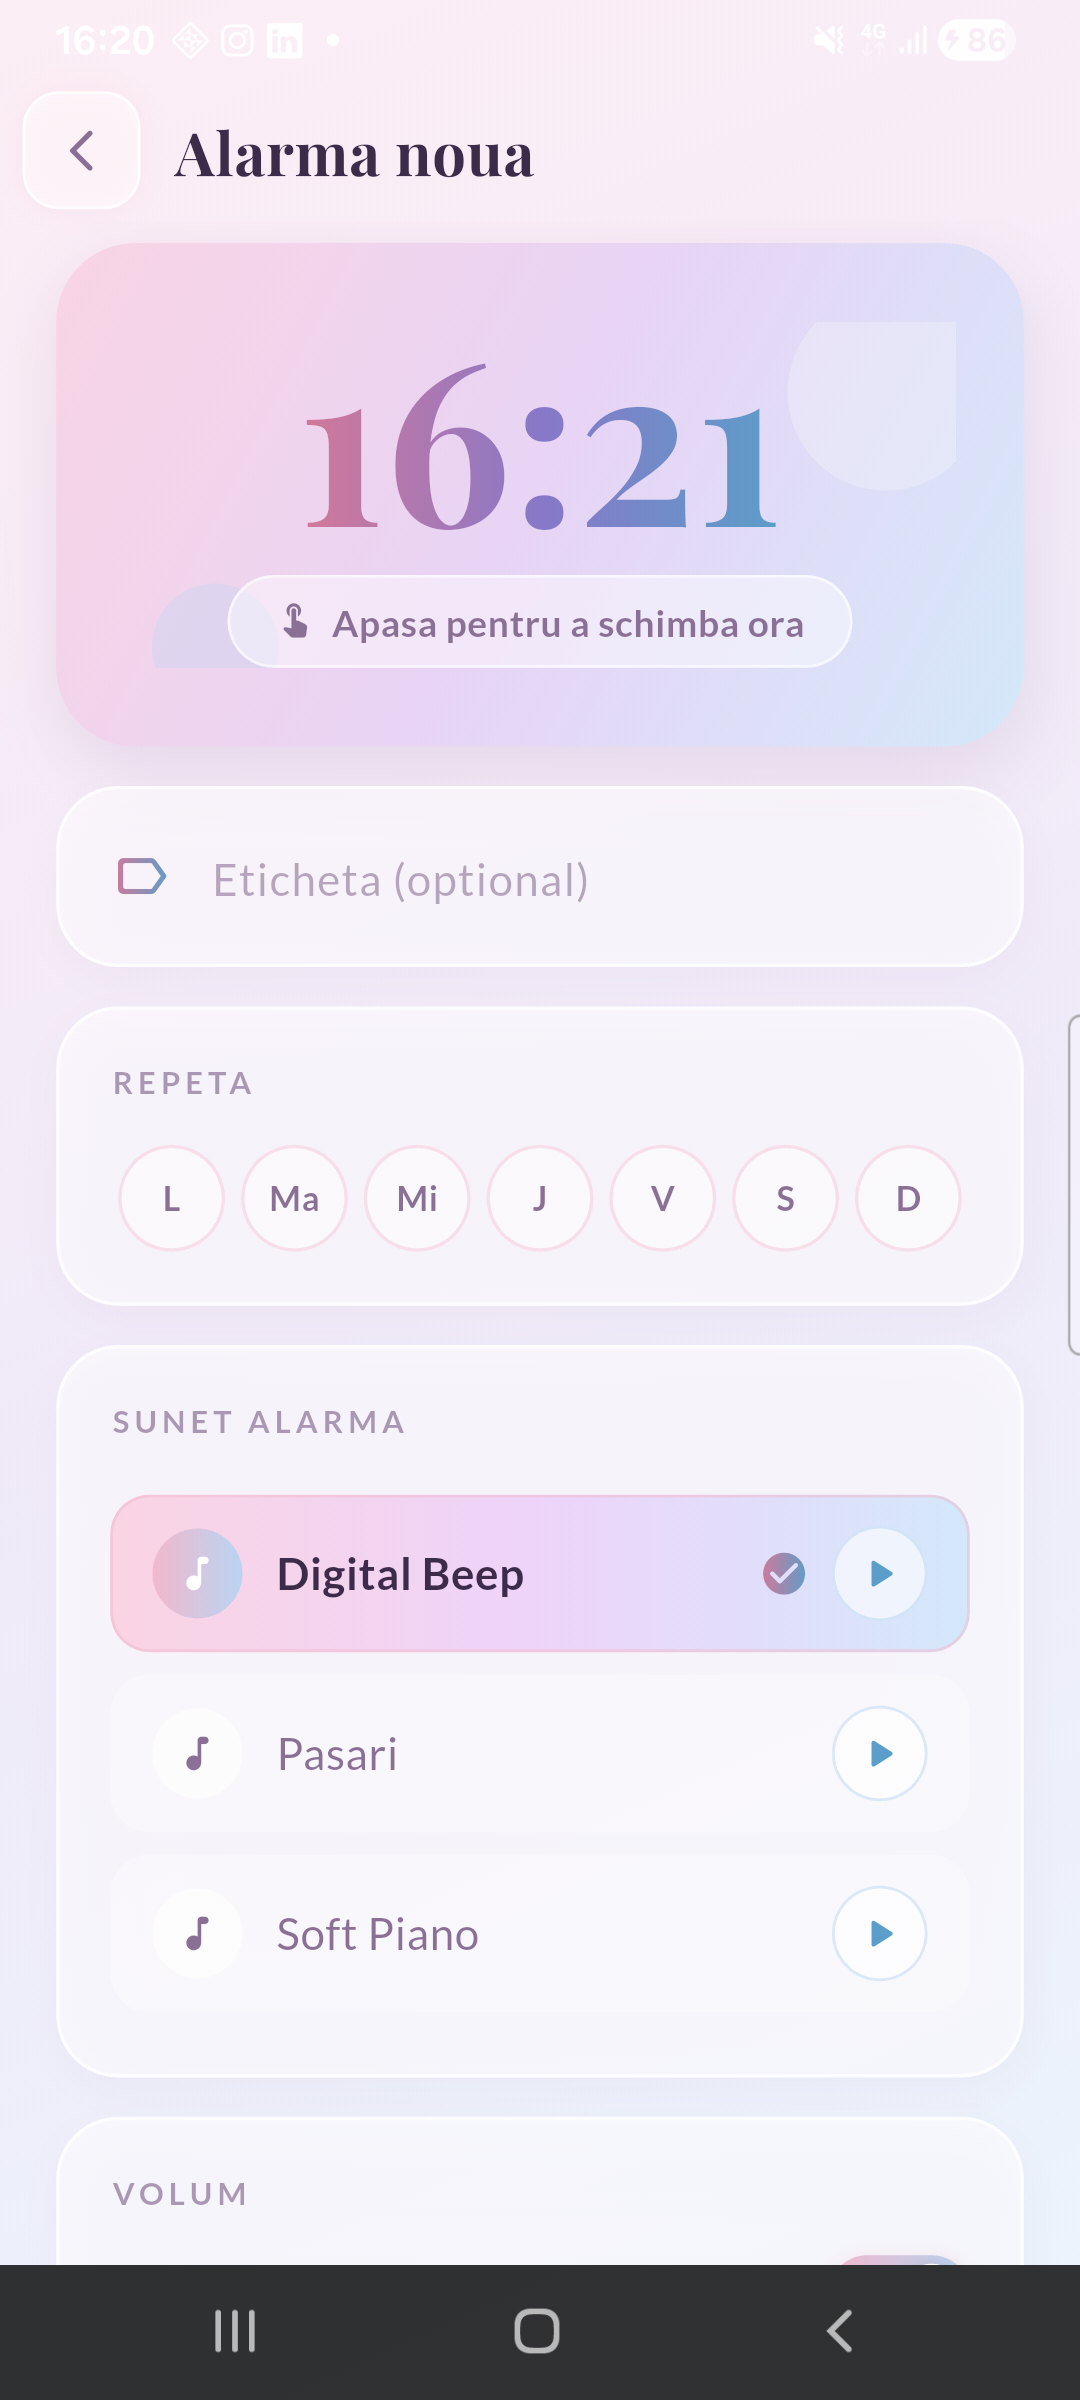
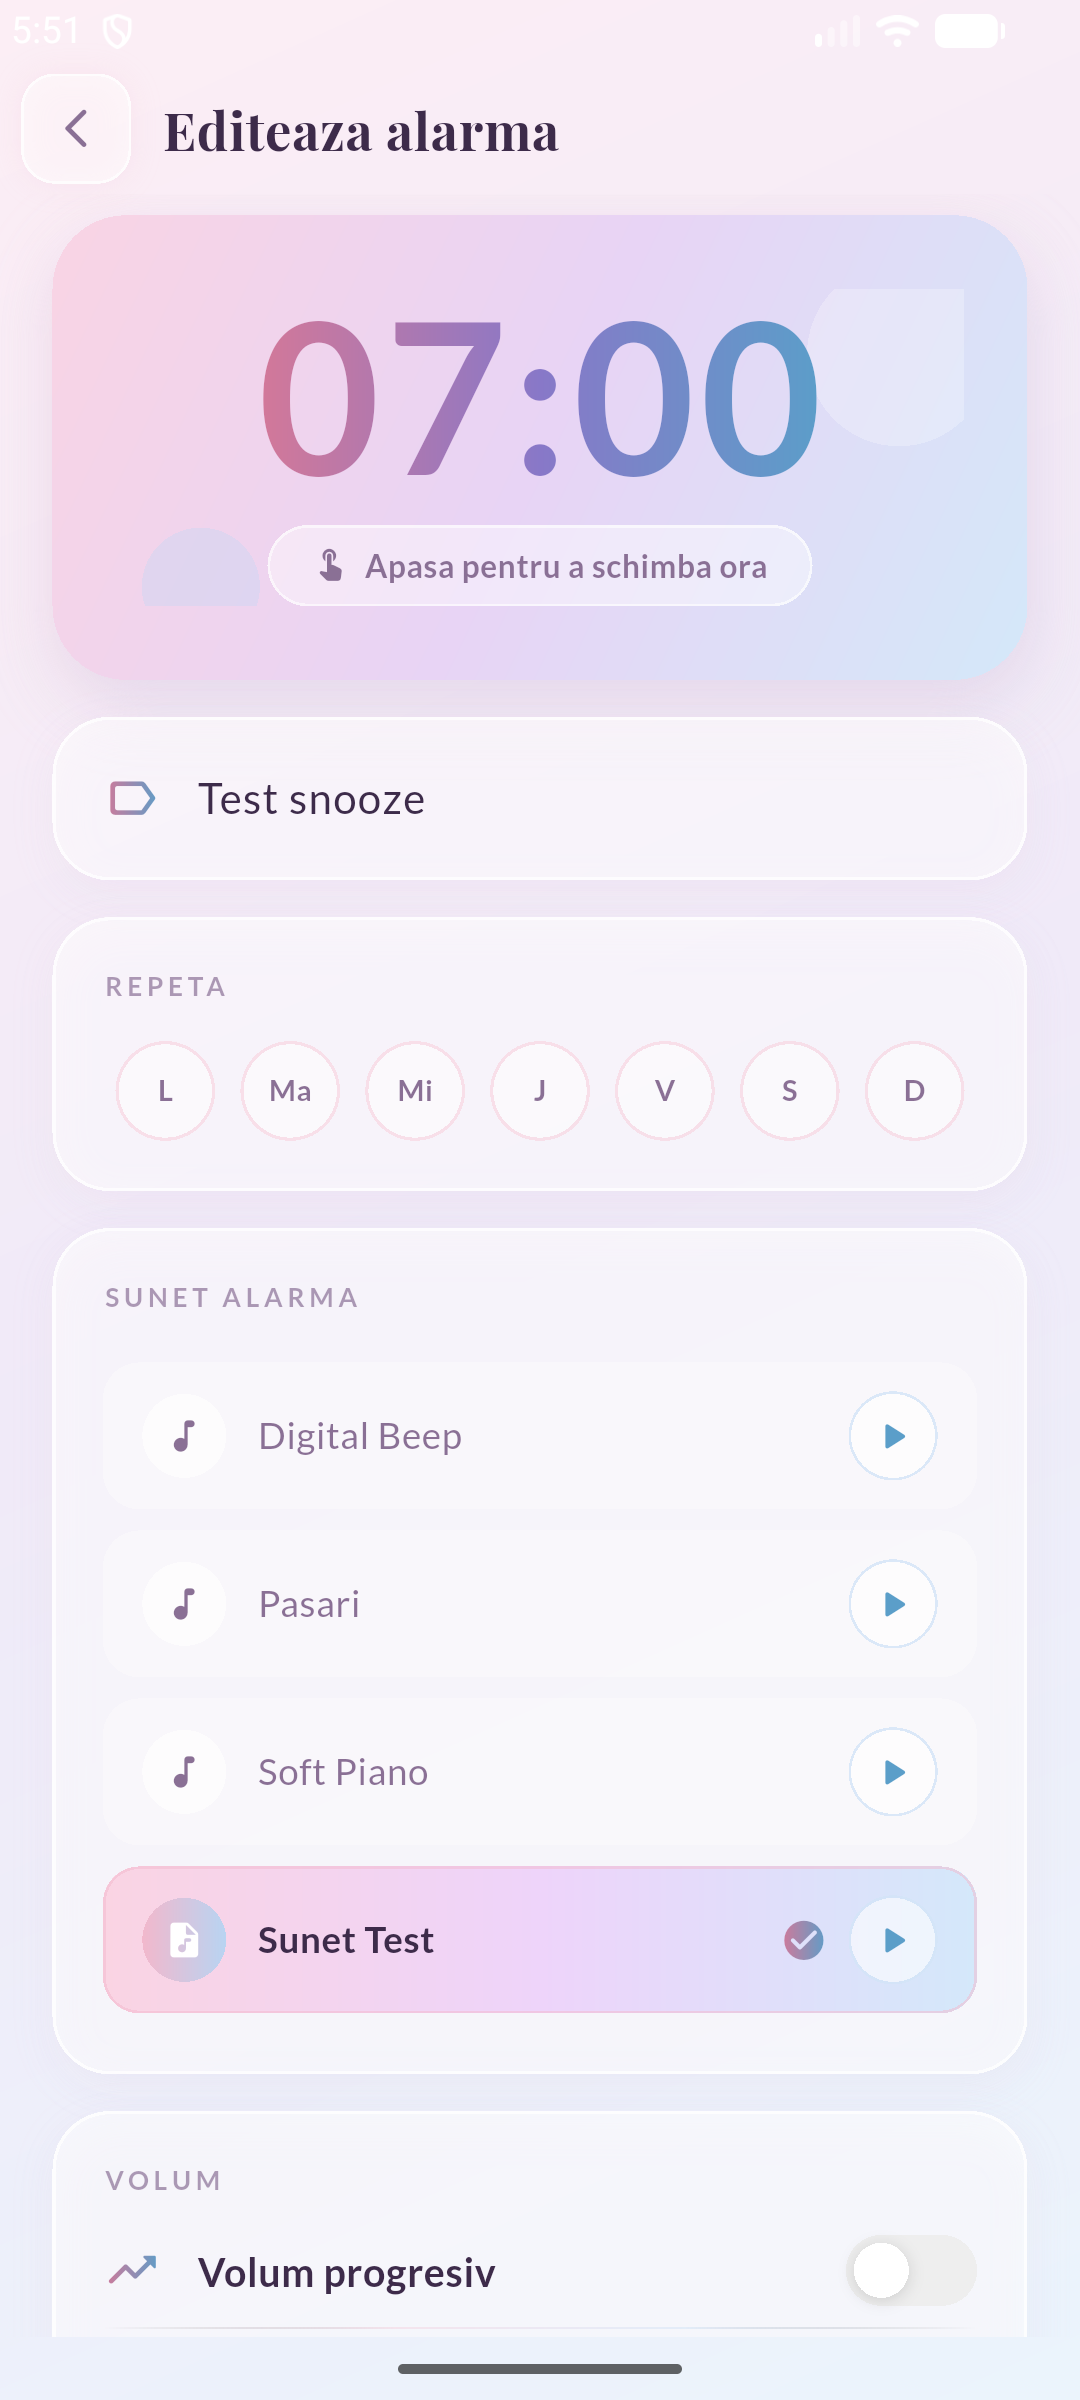
Use Lato with tabular figures for the time digits
Playfair Display is a display serif: high stroke contrast makes large digits
harder to read at a glance, and its proportional figures have different widths,
so numbers shifted sideways while the picker wheel scrolled.

Switch the wheel and the big time on the add/edit screen to Lato — already used
elsewhere in the app, so no new font download — with FontFeature.tabularFigures()
to keep every digit the same width. Headings stay Playfair.

Screenshots in the README updated to match.

diff --git a/alarma/lib/screens/add_alarm_screen.dart b/alarma/lib/screens/add_alarm_screen.dart
@@ -287,10 +287,16 @@ class _AddAlarmScreenState extends State<AddAlarmScreen>
             (index) => Center(
               child: Text(
                 index.toString().padLeft(2, '0'),
-                style: GoogleFonts.playfairDisplay(
-                  fontSize: 38,
+                // Lato, nu Playfair: cifrele se citesc dintr-o privire, fara
+                // contrastul gros/subtire al unui serif. tabularFigures le da
+                // tuturor aceeasi latime, altfel numerele tresar lateral in
+                // timp ce derulezi roata.
+                style: GoogleFonts.lato(
+                  fontSize: 40,
                   fontWeight: FontWeight.w700,
                   color: _textPrimary,
+                  letterSpacing: 1,
+                  fontFeatures: const [FontFeature.tabularFigures()],
                 ),
               ),
             ),
@@ -499,11 +505,13 @@ class _AddAlarmScreenState extends State<AddAlarmScreen>
                       ).createShader(bounds),
                       child: Text(
                         timeStr,
-                        style: GoogleFonts.playfairDisplay(
+                        style: GoogleFonts.lato(
                           fontSize: 80,
                           fontWeight: FontWeight.w700,
                           color: Colors.white,
                           height: 1,
+                          letterSpacing: 2,
+                          fontFeatures: const [FontFeature.tabularFigures()],
                         ),
                       ),
                     ),

diff --git a/README.md b/README.md
@@ -25,7 +25,7 @@ să economisească baterie. Aplicația asta e construită în jurul acelor cazur
 
 <div align="center">
 
-| Lista de alarme | Alarmă nouă | Selector de oră |
+| Lista de alarme | Editare alarmă | Selector de oră |
 |:---:|:---:|:---:|
 | <img src="docs/screenshots/01-lista-alarme.png" width="230"/> | <img src="docs/screenshots/02-alarma-noua.png" width="230"/> | <img src="docs/screenshots/03-selector-ora.png" width="230"/> |
 
